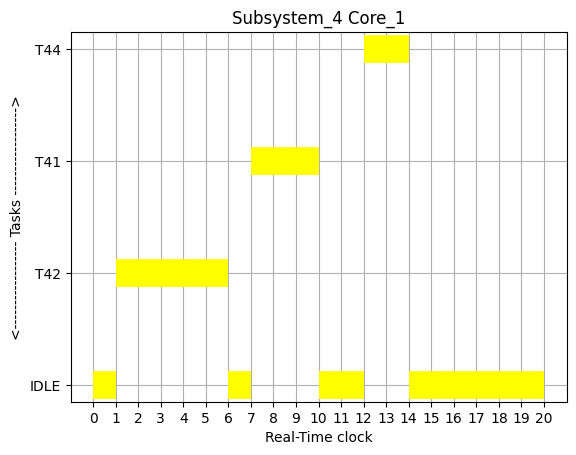
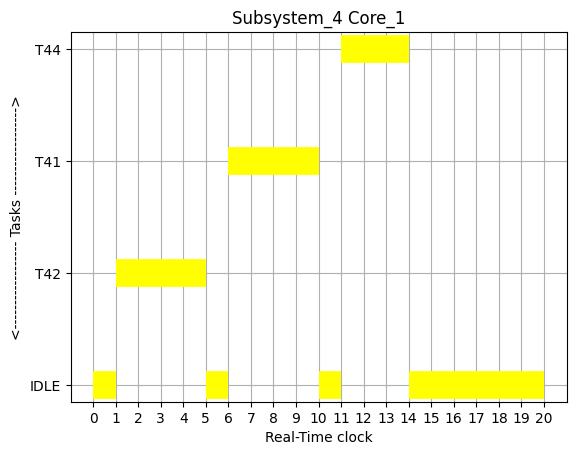
Handling starvation

diff --git a/Subsystem.py b/Subsystem.py
@@ -240,6 +240,30 @@ class Subsystem_1(Subsystem):
         if self.time % 4 == 0:
             self.load_balancing()
 
+        # Handling starvation
+        temp_waiting_queue = []
+        if self.waiting_queue:
+            # Moving tasks from waiting queue to temp waiting queue
+            while self.waiting_queue:
+                task = self.waiting_queue.pop(0)
+                temp_waiting_queue.append(task)
+
+            # Insertion Sort
+            for i in range(len(temp_waiting_queue)):
+                key = temp_waiting_queue[i]
+                j = i - 1
+                while (
+                    j >= 0 and key.execution_time < temp_waiting_queue[j].execution_time
+                ):
+                    temp_waiting_queue[j + 1] = temp_waiting_queue[j]
+                    j -= 1
+                temp_waiting_queue[j + 1] = key
+
+            # Returning tasks from temp waiting queue to waiting queue
+            while temp_waiting_queue:
+                task = temp_waiting_queue.pop(0)
+                self.waiting_queue.append(task)
+
         # Check waiting queue and try to assign tasks
         for task in self.waiting_queue[:]:
             if self.allocate_resources(task):
@@ -507,6 +531,30 @@ class Subsystem_4(Subsystem):
         return status
 
     def execute(self):
+        # Handling starvation
+        temp_waiting_queue = []
+        if self.waiting_queue:
+            # Moving tasks from waiting queue to temp waiting queue
+            while self.waiting_queue:
+                task = self.waiting_queue.pop(0)
+                temp_waiting_queue.append(task)
+
+            # Insertion Sort
+            for i in range(len(temp_waiting_queue)):
+                key = temp_waiting_queue[i]
+                j = i - 1
+                while (
+                    j >= 0 and key.execution_time < temp_waiting_queue[j].execution_time
+                ):
+                    temp_waiting_queue[j + 1] = temp_waiting_queue[j]
+                    j -= 1
+                temp_waiting_queue[j + 1] = key
+
+            # Returning tasks from temp waiting queue to waiting queue
+            while temp_waiting_queue:
+                task = temp_waiting_queue.pop(0)
+                self.waiting_queue.append(task)
+
         # Moving tasks from waiting queue to ready queue
         if self.waiting_queue:
             for _ in self.waiting_queue:
